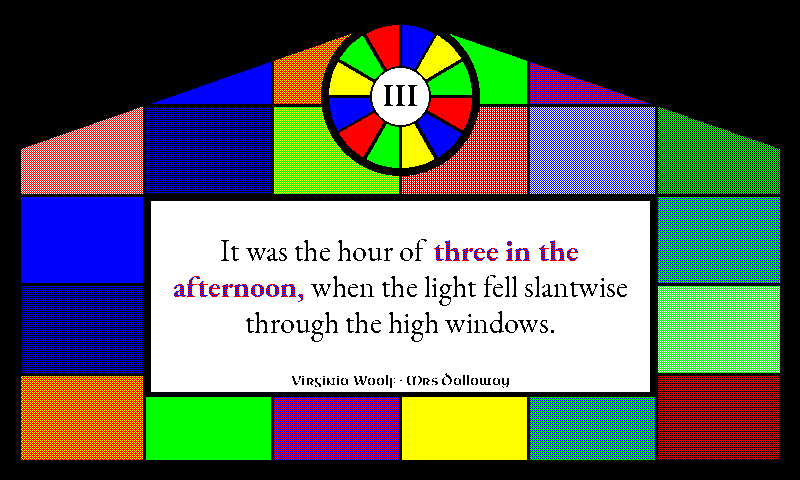
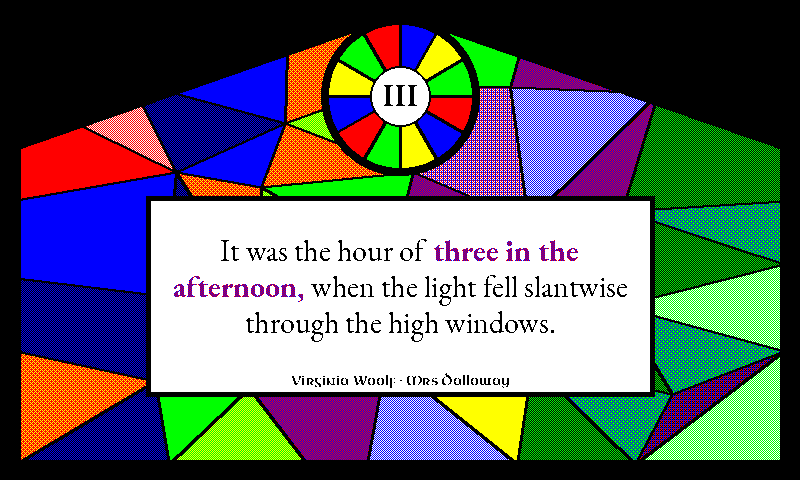
vitrail: irregular leaded-glass shapes instead of a uniform grid
Replace the rectangular 6×5 pane grid with a deterministically-jittered
tessellation so the window reads like real hand-leaded cathedral glass:

- _vitrail_build_panes starts from the lattice, pins border vertices to the
  frame, nudges interior vertices off-grid by a seeded RNG (_VITRAIL_SEED /
  _VITRAIL_JITTER), and splits ~half the cells along a diagonal into two
  triangular shards with different jewel tones (_VITRAIL_SPLIT_PROB) — a mix
  of varied quadrilaterals and triangles.
- _vitrail_fill_polygon fills each shape through a 1-bit polygon mask, with
  _vitrail_pane_ink reproducing the solid / 2-ink / 3-ink stipple recipes per
  pixel against absolute x/y (continuous Bayer phase across seams).
- _vitrail_paint_lead_came now strokes every shape's closed outline so each
  light is individually leaded, plus the heavy outer frame.

Still fully deterministic (fixed seed → byte-identical re-renders) and 100%
on-palette. Regenerates the preview thumbnail and updates the CLAUDE.md /
README descriptions (no longer a "grid").

diff --git a/idle_hours/render_quote.py b/idle_hours/render_quote.py
@@ -12858,6 +12858,15 @@ _VITRAIL_ROSE_R = 74
 _VITRAIL_ARCH_SPRING_Y = 150  # where the pointed-arch spandrels meet the sides
 _VITRAIL_GRID_COLS = 6
 _VITRAIL_GRID_ROWS = 5
+_VITRAIL_CAME_INNER = 3       # came thickness between adjacent glass shapes
+# Irregular-tessellation controls. A fixed seed keeps every render of the
+# window byte-identical (golden / dedup determinism); the jitter nudges the
+# interior lattice vertices off the grid and the split probability decides how
+# many cells break into two triangular shards — together they turn the regular
+# grid into a hand-leaded mosaic of varied quadrilaterals and triangles.
+_VITRAIL_SEED = 0x711A55
+_VITRAIL_JITTER = 0.30
+_VITRAIL_SPLIT_PROB = 0.5
 # Clear white-glass cartouche the literary quote is knocked out onto so the
 # dark body text stays legible over the busy colored field. Fixed for the
 # 800×480 panel, like the other custom-render frames' coordinates.
@@ -12868,11 +12877,11 @@ _VITRAIL_CARTOUCHE = (150, 200, 650, 392)
 # native inks plus the 2-/3-ink Bayer-stipple recipes from
 # spectra6_color_recipes.md) so the window carries every "glass colour" a real
 # cathedral light would. Each entry is a fill spec consumed by
-# _vitrail_fill_pane:
+# _vitrail_pane_ink / _vitrail_fill_polygon:
 #   ("solid", ink)                  → a native Spectra-6 ink
-#   ("2", dark, light, density)     → 2-ink stipple via _fill_swatch_stipple
-#   ("3", a, b, c, dens_a, dens_b)  → 3-ink Bayer partition via
-#                                     _fill_swatch_stipple_3way
+#   ("2", dark, light, density)     → 2-ink stipple (mirrors _fill_swatch_stipple)
+#   ("3", a, b, c, dens_a, dens_b)  → 3-ink Bayer partition (mirrors
+#                                     _fill_swatch_stipple_3way)
 _VITRAIL_GLASS: list[tuple] = [
     ("solid", SPECTRA6["red"]),                                  # ruby
     ("solid", SPECTRA6["blue"]),                                 # sapphire
@@ -12892,38 +12901,113 @@ _VITRAIL_GLASS: list[tuple] = [
 ]
 
 
-def _vitrail_fill_pane(
-    image: Image.Image, draw: ImageDraw.ImageDraw,
-    rect: tuple[int, int, int, int], spec: tuple,
-) -> None:
-    """Fill one leaded-glass pane with its jewel tone per the fill spec."""
+def _vitrail_pane_ink(x: int, y: int, spec: tuple) -> tuple[int, int, int]:
+    """Return the on-palette ink for pixel (x, y) within a pane, per the fill
+    spec — solid, 2-ink stipple, or 3-ink Bayer partition. The stipple maths
+    mirror _fill_swatch_stipple / _fill_swatch_stipple_3way exactly (absolute
+    x/y so the Bayer phase stays continuous across adjacent panes), so the
+    irregular polygon panes carry the same documented recipes the rectangular
+    swatch fills do."""
     kind = spec[0]
     if kind == "solid":
-        draw.rectangle(rect, fill=spec[1])
-    elif kind == "2":
-        _fill_swatch_stipple(image, rect, spec[1], spec[2], spec[3])
-    else:  # "3"
-        _fill_swatch_stipple_3way(image, rect, spec[1], spec[2], spec[3], spec[4], spec[5])
+        return spec[1]
+    if kind == "2":
+        _, dark, light, density = spec
+        if density <= 0.25:
+            return light if (x % 2 == 0 and y % 2 == 0) else dark
+        if density >= 0.5:
+            return dark if (x + y) % 2 == 0 else light
+        return light if BAYER_4x4[y % 4][x % 4] < round(density * 16) else dark
+    # "3" — 3-ink Bayer partition.
+    _, ink_a, ink_b, ink_c, density_a, density_b = spec
+    cell = BAYER_4x4[y % 4][x % 4]
+    if cell < round(density_a * 16):
+        return ink_a
+    if cell < round((density_a + density_b) * 16):
+        return ink_b
+    return ink_c
 
 
-def _vitrail_paint_glass_panes(
-    image: Image.Image, draw: ImageDraw.ImageDraw, field: tuple[int, int, int, int],
-) -> None:
-    """Subdivide the window opening into a fixed lead-came grid and fill each
-    pane with a deterministic jewel tone. The per-row +2 shear staggers the
-    palette so vertically-adjacent panes never share a hue — the irregular
-    rhythm real leaded windows carry."""
+def _vitrail_fill_polygon(image: Image.Image, polygon: list, spec: tuple) -> None:
+    """Fill an arbitrary (irregular quadrilateral or triangular) glass shape
+    with its jewel tone, clipped to the polygon via a 1-bit mask so the stipple
+    only lands inside the leaded shape and never bleeds into a neighbour."""
+    xs = [int(p[0]) for p in polygon]
+    ys = [int(p[1]) for p in polygon]
+    w, h = image.size
+    x0 = max(0, min(xs))
+    y0 = max(0, min(ys))
+    x1 = min(w, max(xs) + 1)
+    y1 = min(h, max(ys) + 1)
+    if x1 <= x0 or y1 <= y0:
+        return
+    mask = Image.new("1", (x1 - x0, y1 - y0), 0)
+    ImageDraw.Draw(mask).polygon([(int(px) - x0, int(py) - y0) for px, py in polygon], fill=1)
+    mpx = mask.load()
+    ipx = image.load()
+    for yy in range(y1 - y0):
+        ay = y0 + yy
+        for xx in range(x1 - x0):
+            if mpx[xx, yy]:
+                ipx[x0 + xx, ay] = _vitrail_pane_ink(x0 + xx, ay, spec)
+
+
+def _vitrail_build_panes(field: tuple[int, int, int, int]) -> list[tuple[list, tuple]]:
+    """Deterministically tessellate the window opening into irregular leaded
+    glass shapes.
+
+    A jittered lattice (border vertices pinned to the frame so the field tiles
+    cleanly to its edges, interior vertices nudged off-grid by a seeded RNG)
+    yields irregular quadrilaterals; roughly half the cells are then split
+    along one diagonal into two triangular shards with different jewel tones,
+    so the field reads as a hand-leaded mosaic of varied shapes rather than a
+    regular grid. The per-row +2 palette shear keeps vertically-adjacent
+    shapes from sharing a hue. Seeded with a fixed constant so every render of
+    the window is byte-identical (golden / panel-dedup determinism)."""
     x0, y0, x1, y1 = field
     cols, rows = _VITRAIL_GRID_COLS, _VITRAIL_GRID_ROWS
+    rng = random.Random(_VITRAIL_SEED)
+    cw = (x1 - x0) / cols
+    ch = (y1 - y0) / rows
+    jx = cw * _VITRAIL_JITTER
+    jy = ch * _VITRAIL_JITTER
+    pts: dict[tuple[int, int], tuple[float, float]] = {}
+    for r in range(rows + 1):
+        for c in range(cols + 1):
+            px = x0 + c * cw
+            py = y0 + r * ch
+            if 0 < c < cols:
+                px += rng.uniform(-jx, jx)
+            if 0 < r < rows:
+                py += rng.uniform(-jy, jy)
+            pts[(r, c)] = (px, py)
     n = len(_VITRAIL_GLASS)
+    panes: list[tuple[list, tuple]] = []
     for r in range(rows):
-        py0 = y0 + (y1 - y0) * r // rows
-        py1 = y0 + (y1 - y0) * (r + 1) // rows
         for c in range(cols):
-            px0 = x0 + (x1 - x0) * c // cols
-            px1 = x0 + (x1 - x0) * (c + 1) // cols
+            tl = pts[(r, c)]
+            tr = pts[(r, c + 1)]
+            br = pts[(r + 1, c + 1)]
+            bl = pts[(r + 1, c)]
             idx = (r * cols + c + r * 2) % n
-            _vitrail_fill_pane(image, draw, (px0, py0, px1, py1), _VITRAIL_GLASS[idx])
+            if rng.random() < _VITRAIL_SPLIT_PROB:
+                # Split into two triangular shards on one of the two diagonals.
+                alt = _VITRAIL_GLASS[(idx + 7) % n]
+                if rng.random() < 0.5:
+                    panes.append(([tl, tr, br], _VITRAIL_GLASS[idx]))
+                    panes.append(([tl, br, bl], alt))
+                else:
+                    panes.append(([tl, tr, bl], _VITRAIL_GLASS[idx]))
+                    panes.append(([tr, br, bl], alt))
+            else:
+                panes.append(([tl, tr, br, bl], _VITRAIL_GLASS[idx]))
+    return panes
+
+
+def _vitrail_paint_glass_panes(image: Image.Image, panes: list) -> None:
+    """Fill every leaded glass shape with its jewel tone."""
+    for polygon, spec in panes:
+        _vitrail_fill_polygon(image, polygon, spec)
 
 
 def _vitrail_paint_arch_spandrels(
@@ -12940,22 +13024,19 @@ def _vitrail_paint_arch_spandrels(
 
 
 def _vitrail_paint_lead_came(
-    image: Image.Image, draw: ImageDraw.ImageDraw, field: tuple[int, int, int, int],
+    draw: ImageDraw.ImageDraw, panes: list, field: tuple[int, int, int, int],
 ) -> None:
-    """Draw the black lead came: the heavy outer window frame plus the
-    inter-pane grid lines matching _vitrail_paint_glass_panes' subdivision."""
+    """Trace black lead came along every glass-shape boundary, then lay the
+    heavy outer window frame on top. Stroking each shape's closed outline draws
+    came along every leaded seam (shared edges painted twice, harmlessly), so
+    the irregular tessellation reads as individually-leaded lights."""
     BLACK = SPECTRA6["black"]
+    for polygon, _ in panes:
+        draw.line([*polygon, polygon[0]], fill=BLACK, width=_VITRAIL_CAME_INNER, joint="curve")
     came = _VITRAIL_CAME_W
     x0, y0, x1, y1 = field
     for o in range(came):
         draw.rectangle((x0 + o, y0 + o, x1 - o, y1 - o), outline=BLACK)
-    cols, rows = _VITRAIL_GRID_COLS, _VITRAIL_GRID_ROWS
-    for c in range(1, cols):
-        gx = x0 + (x1 - x0) * c // cols
-        draw.line((gx, y0, gx, y1), fill=BLACK, width=came - 2)
-    for r in range(1, rows):
-        gy = y0 + (y1 - y0) * r // rows
-        draw.line((x0, gy, x1, gy), fill=BLACK, width=came - 2)
 
 
 def _vitrail_paint_rose_window(
@@ -13108,12 +13189,14 @@ def render_vitrail_frame(time_str: str, quote_row: dict, width: int, height: int
     image = Image.new("RGB", (width, height), color=SPECTRA6["black"])
     draw = ImageDraw.Draw(image)
     field = (_VITRAIL_SURROUND, _VITRAIL_SURROUND, width - _VITRAIL_SURROUND, height - _VITRAIL_SURROUND)
-    # Paint order: panes → arch spandrels → came grid → rose (on top of the
-    # top panes) → cartouche white knockout (erases any came crossing it) →
+    # Paint order: fill glass shapes → lead came along every seam → arch
+    # spandrels (black stone over the top corners) → rose (on top of the top
+    # shapes) → cartouche white knockout (erases any came/glass crossing it) →
     # cartouche frame + quote body + attribution.
-    _vitrail_paint_glass_panes(image, draw, field)
+    panes = _vitrail_build_panes(field)
+    _vitrail_paint_glass_panes(image, panes)
+    _vitrail_paint_lead_came(draw, panes, field)
     _vitrail_paint_arch_spandrels(image, draw, field)
-    _vitrail_paint_lead_came(image, draw, field)
     try:
         hour24 = int(time_str.split(":", 1)[0])
     except (ValueError, AttributeError):

diff --git a/CLAUDE.md b/CLAUDE.md
@@ -555,7 +555,7 @@ Imports `pick_quote` in-process (`pick_quote_module.select_quote`) and lays out 
   - `vinyl` (cream-washed sleeve / black Cormorant Garamond body / tangerine matched-phrase / red label + black tonearm, turntable + literary-audiobook LP back-cover — the fifth theme to bypass the literary layout entirely. Visually a 1950s/60s spoken-word LP in the **Caedmon Records / Spoken Arts / Listening Library register** — those labels pressed Dylan Thomas, T. S. Eliot, Auden et al. reading their own work to vinyl, the discs looked mechanically identical to music LPs (33 RPM, grooved, jacketed, library-distributed), and they are the historical bridge between a vinyl visual and a literary corpus. Composition divides the canvas down the middle: **left half is the turntable** with a black vinyl LP (radius 200, centred at `(_VINYL_DISK_CX, _VINYL_DISK_CY) = (200, 240)`) — densely-packed concentric groove hairlines (1-px white ellipses every 3 px across the programme band r_label+12 → r_outer-10 = ~33 grooves that blur at panel distance into a textured silvery band — earlier revisions used only 3-4 rings spaced 28 px apart which read as decorative concentric circles rather than as actual pressed-vinyl grooves), a heavier 2-px lead-in groove just inside the rim, and a smooth dead-wax ring between the inner groove and the label — the three-zone authentic LP pressing structure. The **pivoted tonearm** (`_vinyl_paint_tonearm`) replaces an earlier straight-line stylus rendition: the arm pivots from a fixed point at `_VINYL_TONEARM_PIVOT = (388, 70)` (upper-right of the turntable plate, off the disk itself), with a counterweight cylinder behind the pivot (small black filled circle + red outline ring) and a black cartridge headshell at the front (a 4-point polygon rotated to follow the arm angle, since PIL has no rotate-rectangle primitive); the cartridge stylus pin (small red filled circle) lands on the disk rim at the current-minute angle (12-o'-clock = minute 0, clockwise) — the canonical "this is a turntable" silhouette every consumer LP-deck has worn into collective memory, without which the disk reads as a generic vinyl drawing. The red 80-px-radius **label** carries an outer 2-px black ring border (inset 4 px from the label edge), a `· SPOKEN WORD ·` format mark along the top arc in small Antonio Bold (the audiobook-LP equivalent of a music LP's STEREO format mark), the matched-phrase snippet truncated to 18 chars as the "passage title" in Cormorant Bold 11pt, a thin white hairline divider, an `IDLE HOURS` Cormorant Bold 14pt brand line, a `READ ALOUD` Cormorant Regular 11pt sub-title (the audiobook-LP equivalent of music LP's "VOLUME I"), a Space Mono Bold catalog number like `IH-H11-15` derived from the fuzzy bucket via `_vinyl_catalog_number`, and a `© YYYY` year stamp at the bottom arc — all white-on-red. Render order on the turntable side is **disk body (black + grooves only, no label / spindle) → tonearm (line may cross over the inner disk and label area) → label (red fill + outer ring + STEREO + brand + spindle)**, so the label paints on top of the arm without the arm cutting through the brand-stack text. **Right half is the cream-washed liner-notes panel**: a small red `— READING —` Antonio Bold heading at the top (the Caedmon-Records equivalent of a music LP's "TRACK ONE" sleeve heading), the literary quote in Cormorant Garamond with a tangerine R+Y 5/8:3/8 matched-phrase substitution (the documented `deco` / `astrarium` recipe), author · title attribution, a bottom catalog bar reading `IDLE HOURS LITERARY RECORDINGS  ·  CAT NO. IH-H11-15  ·  © YYYY` in Cardo Italic 11pt with a thin black hairline rule above (the small-print band real LP back covers carry at the bottom of the jacket), and a `33 RPM` badge in the top-right corner (earlier revisions used the unicode `⅓` glyph but Space Mono Bold doesn't carry that codepoint and the badge tofu'd; ASCII `33 RPM` is the canonical fallback every record-jacket designer reaches for when the fractional ⅓ isn't available). Daily-seeded wear marks on the sleeve (`_vinyl_paint_wear_speckle(seed=YYYYMMDD)`) — same-day re-renders produce the identical speckle pattern, day-to-day re-renders drift naturally. Saturation tier `0.5` (white-ground tier) — the cream sleeve dominates visually and the black vinyl disk has no synthesised colour that needs a saturation boost; the matched-phrase tangerine R+Y uses the same recipe `astrarium` does and reads correctly at this saturation.
   - `kanagawa` (white/black/red, Yuji Boku sumi-brush — Yuji Hamasaki, OFL via Google Fonts — a stylised Japanese seascape inspired by Hokusai's "Thirty-six Views of Mount Fuji" series. An earlier revision attempted a literal Great-Wave silhouette via parametric Gaussian-peak polygons but PIL polygon fills + a 6-colour palette can't carry the ink-brush nuance the print needs; the design pivoted to the canonical seigaiha (青海波 / "blue ocean waves") textile pattern as the centrepiece — overlapping fish-scale half-disks (`draw.pieslice` from 180° to 360°) in indigo with three concentric white arc stripes (radii 23 / 18 / 13) inside each scale, arranged in tight rows with each row offset by half a tile width from the row above so only the upper crescent of each scale shows — the iconic woven-textile rhythm. Tile geometry is held on module-level constants (`_SEIGAIHA_TILE_RADIUS = 28`, `_SEIGAIHA_RING_RADII`) and the helper `_draw_seigaiha_band` fills an arbitrary horizontal band so future themes can reuse the primitive. Composition layers above the seigaiha (deepest → shallowest): a vertically-graduated sky-blue Bayer wash (the first *gradient* Bayer wash in the codebase — threshold tapers linearly from 5/16 at y=0 to 0 at the horizon y≈264, reading as morning haze), five distant ink-stroke birds at module-level deterministic anchors (`_KANAGAWA_BIRD_ANCHORS`, with asymmetric per-bird left/right wing droops so the flock reads as five distinct soaring silhouettes rather than identical V stamps), and a thin sparse-stippled blue horizon line at y≈297 separating sky from seigaiha. The deepest seigaiha row picks up a navy stipple post-pass (B+K 1:1, the documented `bauhaus` matched-phrase recipe) so the bottom of the "ocean" reads as deeper water. A red rounded-rectangle hanko seal (32×38 px at the bottom-right corner, with a stylised `川` "kawa" / "river" kanji painted in 2 px white strokes — leftmost stroke kinked at the top to suggest brush motion) anchors the BR; the seal's base picks up a bbox `(x+y)&1` maroon post-pass (R+K 1:1, the documented recipe `dispatch` and `chanbara` both use) so it reads as the aged oxblood of a real archival ink stamp. The body text + attribution sit inside a cream-tinted rounded paper panel knocked out of the seigaiha (radius 12 via `draw.rounded_rectangle`), painted via the same `clear_rect` dispatch in `render()` that `blueprint` uses for its graph-paper grid knockout. The panel has a 1 px black frame following the rounded corner arc and a 2 px black drop-shadow ledge on the bottom-right edge (a black rounded rect offset 2 px right/down before the cream fill — the cream covers all but the 2 px ledge), reading as a hand-pressed paper card lifted slightly above the seigaiha textile. The cream tint uses 4 off-grid anchor positions per 8×8 tile (at (1,3) + (5,6) + (2,7) + (6,2), ~6% yellow density on white) rather than the regular 4×4 Bayer matrix — the off-grid placement avoids the "lemon grid" lattice effect a Bayer pattern produces at desktop zoom against the saturated seigaiha indigo, while still averaging to warm vellum at panel-viewing distance. Matched time phrase: solid Spectra red — the classic ukiyo-e signature-red register, tied tonally to the hanko seal's red base. Body face is Yuji Boku, the first proper Japanese sumi-brush face in the bundle (single Regular weight; matched-phrase role re-uses Regular and gains differentiation from the red accent alone, same trick comic / dispatch / atomic / marker / saloon / deco / glacier / chalkboard / placard / chanbara use). Sits visually distinct from the rotation's other Japanese-flavoured theme (`chanbara` — dramatic all-caps samurai-cinema brush via Shojumaru): chanbara is samurai *cinema* in a bold display brush with a rising sun, kanagawa is woodblock-print *textile* in a calligraphic body brush with seigaiha as the dominant motif. No outer frame — authentic woodblock prints have no border (same composition discipline as `fillmore`); kanagawa is intentionally absent from `_DEBUG_LABEL_RIGHT_INSET` since the seigaiha sits in the bottom half and no graphic touches the y=14-29 banner band).
   - `cartograph` (cream-washed white / black IM Fell English Italic body / red matched-phrase, hand-drawn antique cartographer's chart — a literary-layout theme with a heavy `draw_cartograph_border` decoration rather than a custom-render frame. White-paper ground warmed by a cream Y+W Bayer Layer-0 wash plus a sparse R+G sepia foxing scatter (the same two-pass aged-paper recipe `newsprint` / `tarot` use, here over cream); two diagonal-corner coastline silhouettes in R+G sepia, a 32-px R+Y tangerine compass rose at the bottom-left, a small black sea-serpent margin doodle ("here be dragons"), three hand-lettered italic Latin place labels in sepia, and a `clear_rect` knockout of the body region to a clean cream cartouche with a doubled red+black rubricated rule and registration-cross corner accents (the same knockout `kanagawa` / `blueprint` use). The matched phrase picks IM Fell *Regular* (upright Roman) in solid red so differentiation arrives via colour + roman/italic split rather than weight — the canonical "place name upright, body legend italic" cartographic convention. Completes the navigation trio alongside `firmament` (celestial atlas) and `astrarium` (instrument dashboard). Saturation tier `0.5`.)
-  - `vitrail` (jewel-glass field / black lead-came / clear white-glass quote cartouche, Gothic stained-glass cathedral window — the sixth theme to bypass the literary layout entirely, dispatching from `render` into its own `render_vitrail_frame`. The "take full advantage of the hardware" theme: a tall lancet window whose black lead-came tracery (`_vitrail_paint_lead_came`) divides the canvas into a fixed 6×5 grid of jewel-toned glass panes that deliberately exercise the FULL synthesised Spectra-6 palette — the four saturated native inks plus amber/gold (R+Y 5/8:3/8 tangerine), royal purple (R+B 1:1), teal (G+B 5/8:3/8), plum (R+B+K 3-ink), lavender (R+B+W 3-ink), rose/coral (R+W), sky-blue (B+W), olive (Y+G), mint (G+W), navy (B+K) and forest (G+K) — cycled deterministically from the module-level `_VITRAIL_GLASS` spec list via `_vitrail_fill_pane` (which dispatches each pane to a solid fill, `_fill_swatch_stipple`, or `_fill_swatch_stipple_3way`). A pointed lancet arch is carved into the top by filling the two top-corner spandrels black (`_vitrail_paint_arch_spandrels`); a rose-window medallion (`_vitrail_paint_rose_window`) at top-centre divides a stone-ringed glass disc into twelve jewel-tone petal wedges by radial came and carries the Roman-numeral hour (Uncial Antiqua, via the shared `_TAROT_ROMAN_NUMERALS` dict) at its clear-glass hub. The literary quote glows in a clear white-glass central cartouche (`_vitrail_paint_quote_cartouche`) knocked out of the colored field with a solid-white wipe — not a wash — so the dark EB Garamond body and the **violet-glass matched phrase (R+B 1:1 via `draw_text_dithered`)** stay legible over the busy panes; author · title attribution sits at the cartouche foot in Uncial Antiqua. The digital HH:MM is never surfaced as plain digits — the matched phrase and the rose-window numeral carry the time. Fully deterministic (no RNG) so re-renders of a given time are byte-identical. The palette in `THEMES` is a plain white/black ground with a blue (violet-glass) accent, consumed only by the goodnight / source-card fall-through paths; the frame itself hardcodes Spectra-6 inks. Saturation tier `0.7` (the colored glass dominates the canvas; the white cartouche has no chroma to scale).)
+  - `vitrail` (jewel-glass field / black lead-came / clear white-glass quote cartouche, Gothic stained-glass cathedral window — the sixth theme to bypass the literary layout entirely, dispatching from `render` into its own `render_vitrail_frame`. The "take full advantage of the hardware" theme: a tall lancet window whose black lead-came tracery (`_vitrail_paint_lead_came`) divides the canvas into an irregular hand-leaded mosaic of jewel-toned glass shapes that deliberately exercise the FULL synthesised Spectra-6 palette — the four saturated native inks plus amber/gold (R+Y 5/8:3/8 tangerine), royal purple (R+B 1:1), teal (G+B 5/8:3/8), plum (R+B+K 3-ink), lavender (R+B+W 3-ink), rose/coral (R+W), sky-blue (B+W), olive (Y+G), mint (G+W), navy (B+K) and forest (G+K) — drawn deterministically from the module-level `_VITRAIL_GLASS` spec list. `_vitrail_build_panes` starts from a 6×5 lattice, pins the border vertices to the frame but nudges every interior vertex off-grid by a seeded RNG (`_VITRAIL_SEED` / `_VITRAIL_JITTER`), then splits ≈half the cells (`_VITRAIL_SPLIT_PROB`) along one diagonal into two triangular shards with different tones — so the field reads as varied quadrilaterals and triangles rather than a regular grid. Each shape is filled via `_vitrail_fill_polygon` (a 1-bit polygon mask + the per-pixel `_vitrail_pane_ink`, whose solid / 2-ink / 3-ink branches mirror `_fill_swatch_stipple` / `_fill_swatch_stipple_3way` against absolute x/y so the Bayer phase stays continuous across seams), and `_vitrail_paint_lead_came` then strokes every shape's closed outline in black so each light reads as individually leaded. A pointed lancet arch is carved into the top by filling the two top-corner spandrels black (`_vitrail_paint_arch_spandrels`); a rose-window medallion (`_vitrail_paint_rose_window`) at top-centre divides a stone-ringed glass disc into twelve jewel-tone petal wedges by radial came and carries the Roman-numeral hour (Uncial Antiqua, via the shared `_TAROT_ROMAN_NUMERALS` dict) at its clear-glass hub. The literary quote glows in a clear white-glass central cartouche (`_vitrail_paint_quote_cartouche`) knocked out of the colored field with a solid-white wipe — not a wash — so the dark EB Garamond body and the **violet-glass matched phrase (R+B 1:1 via `draw_text_dithered`)** stay legible over the busy panes; author · title attribution sits at the cartouche foot in Uncial Antiqua. The digital HH:MM is never surfaced as plain digits — the matched phrase and the rose-window numeral carry the time. Fully deterministic (no RNG) so re-renders of a given time are byte-identical. The palette in `THEMES` is a plain white/black ground with a blue (violet-glass) accent, consumed only by the goodnight / source-card fall-through paths; the frame itself hardcodes Spectra-6 inks. Saturation tier `0.7` (the colored glass dominates the canvas; the white cartouche has no chroma to scale).)
 - **Fonts.** Typography is per-theme, and each non-default theme deliberately picks a face from a different type *family* so the rendered frame's silhouette changes with the theme — not just its palette. `THEME_FONTS` maps each `THEMES` entry to a dict with `quote_regular` / `quote_bold` / `ornament` candidate chains, each a list of path strings OR `(path, variation_name)` tuples. The tuple form targets variable fonts — `load_font` calls `set_variation_by_name(name)` after the truetype load, so e.g. the scholar theme picks Regular/Bold instances from a single variable `Bitter-Variable.ttf` (whose default axis instance is Thin — a missing variation call would render near-invisible hairlines on the panel). Every per-theme chain ends at the Playfair / DejaVu defaults so a missing-font install degrades to the default face instead of dropping to the PIL bitmap fallback. System metadata / debug strips always use DejaVu / Noto / Liberation Sans regardless of theme. Install `apt install fonts-noto-core fonts-dejavu-core` if the bundled fonts aren't found. When every TTF candidate is missing, `load_font` logs a one-shot warning to stderr before returning `ImageFont.load_default()` so a misconfigured install surfaces instead of silently producing an 8-pixel bitmap render.
   - `default` and `dark` share the Playfair Display chain (transitional / high-contrast serif; repo-local `idle_hours/fonts/`, then common Pi/Linux paths, with DejaVu Serif / Liberation Serif / Noto Serif as system fallbacks).
   - `scholar` uses **Bitter** — a slab serif; even-contrast blocky terminals read as "academic textbook" and sit visually far from Playfair's display-serif silhouette, Regular body + Bold accent.

diff --git a/README.md b/README.md
@@ -311,7 +311,7 @@ Thirty-seven themes ship built-in, all constrained to the Spectra 6 panel palett
 
 `marquee`, `tarot`, and `vinyl` are three more custom-render themes that follow the `astrarium` pattern — each dispatches out of `render()` into its own frame function and owns its composition top to bottom. **`marquee`** is a 1930s movie-palace facade: a black ground framed by an alternating yellow + red bulb-light border around the entire perimeter (with small white highlight pixels on each bulb so they read as lit glass), big chunky Bungee Shade book title at the top as the "feature title" (uppercased, auto-shrunk through 72→32pt and wrapping to two lines for long titles), a NOW SHOWING tagline above and ONE NIGHT ONLY below, the literary quote rendered in white Cardo Italic with a red matched-phrase accent as the feature copy, and a WRITTEN BY [AUTHOR] credit chrome at the bottom (yellow Antonio Bold label + white Cardo Italic name). The digital HH:MM is deliberately never surfaced — the matched-phrase red highlight in the body carries the time signal, the way every other quote-based literary clock does. **`tarot`** is a single centred major-arcana card on a cream-and-sepia foxed vellum ground: doubled red+black rubricated border with playing-card-style Roman numerals in all four corners (bottom pair rotated 180°), Roman-numeral hour at top (Cinzel Decorative Black), matched-phrase card name in Tyrian purple (R+B 1:1 dither), an hour-mapped emblem at centre (all twelve trumps — Magician through World — ship as detailed line-work templates, ~140–200 px tall), EB Garamond body sitting in a clean cream cartouche knocked out of the surrounding foxing, centred attribution. **`vinyl`** is a turntable + LP back-cover, framed as a 1950s/60s **literary audiobook recording** — same chassis a music LP would have, but with the chrome text in the spoken-word register that real labels like Caedmon Records (Dylan Thomas, T. S. Eliot, Auden) and Spoken Arts pressed during the original audiobook-on-vinyl era. A black vinyl LP fills the left half (centre at (200, 240), radius 200, densely-packed concentric groove hairlines + smooth dead-wax ring + heavier lead-in groove at the rim); a pivoted black tonearm pivots from the upper-right of the turntable with a visible counterweight + cartridge headshell + red stylus pin contacting the disk at the current-minute rim position (sweeping clockwise from 12-o'-clock). The red 80-px-radius label at the spindle carries an outer black ring border, a `· SPOKEN WORD ·` format mark, the matched-phrase passage title, an `IDLE HOURS / READ ALOUD` brand stack, a Space Mono catalog number like `IH-H2-30`, and a `© YYYY` year stamp. The right half is a cream-washed liner-notes panel: a small red `— READING —` heading at the top, the literary quote in Cormorant Garamond with a tangerine R+Y matched-phrase substitution, author/title attribution, and a bottom catalog bar reading `IDLE HOURS LITERARY RECORDINGS  ·  CAT NO. …  ·  © YYYY`. A `33 RPM` badge sits in the top-right corner. As with the other custom-render themes, `--mode debug` does not apply.
 
-**`vitrail`** is a Gothic stained-glass cathedral window, and the theme that leans hardest into the panel's full colour gamut. Black lead-came tracery divides the canvas into a grid of jewel-toned glass panes that deliberately surface the entire synthesized Spectra 6 palette — the four saturated native inks plus amber/gold, royal purple, teal, plum, lavender, rose, sky-blue, olive, mint, navy and forest, each built from the documented stipple recipes so the frame stays on-palette. A pointed lancet arch is carved into the top; a rose-window medallion divides a stone-ringed glass disc into twelve jewel-tone petals and carries the Roman-numeral hour (in Uncial Antiqua) at its hub. The literary quote glows in a clear white-glass central cartouche knocked out of the colored field so the EB Garamond body and the violet-glass matched phrase stay legible, with author/title at the cartouche foot. The digital HH:MM is never surfaced — the matched phrase and the rose-window numeral carry the time. Fully deterministic and, like the other custom-render frames, dispatched out of `render()` into its own frame function (so `--mode debug` does not apply).
+**`vitrail`** is a Gothic stained-glass cathedral window, and the theme that leans hardest into the panel's full colour gamut. Black lead-came tracery divides the canvas into an irregular hand-leaded mosaic of jewel-toned glass shapes (a jittered lattice split into varied quadrilaterals and triangular shards, not a uniform grid) that deliberately surface the entire synthesized Spectra 6 palette — the four saturated native inks plus amber/gold, royal purple, teal, plum, lavender, rose, sky-blue, olive, mint, navy and forest, each built from the documented stipple recipes so the frame stays on-palette. A pointed lancet arch is carved into the top; a rose-window medallion divides a stone-ringed glass disc into twelve jewel-tone petals and carries the Roman-numeral hour (in Uncial Antiqua) at its hub. The literary quote glows in a clear white-glass central cartouche knocked out of the colored field so the EB Garamond body and the violet-glass matched phrase stay legible, with author/title at the cartouche foot. The digital HH:MM is never surfaced — the matched phrase and the rose-window numeral carry the time. Fully deterministic and, like the other custom-render frames, dispatched out of `render()` into its own frame function (so `--mode debug` does not apply).
 
 Pass `--theme auto` to let the clock pick by wall-clock time. The defaults are `default` during the day (06:00–18:00) and `dark` at night (18:00–06:00) — the legacy binary contract. Broaden the rotation by setting `--auto-day-theme` and/or `--auto-night-theme` to any other registered theme, e.g.
 
